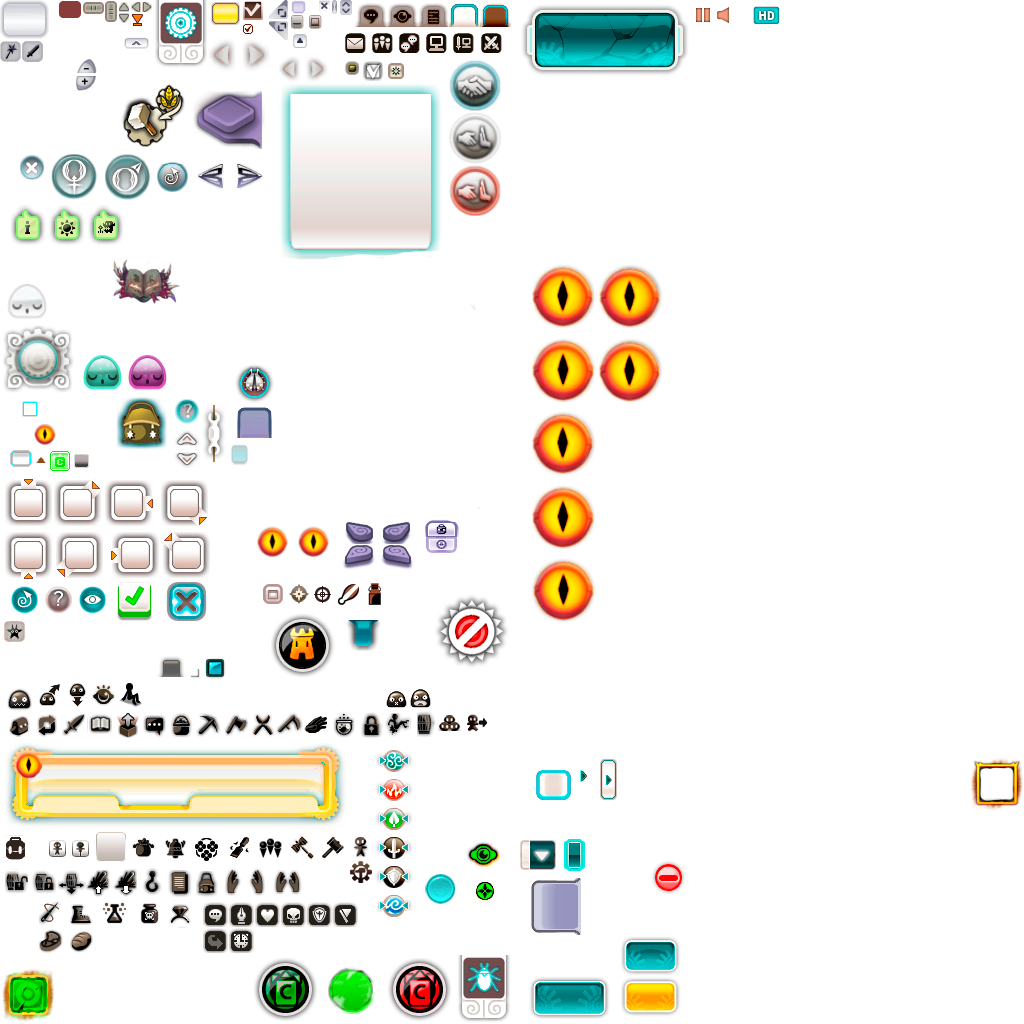
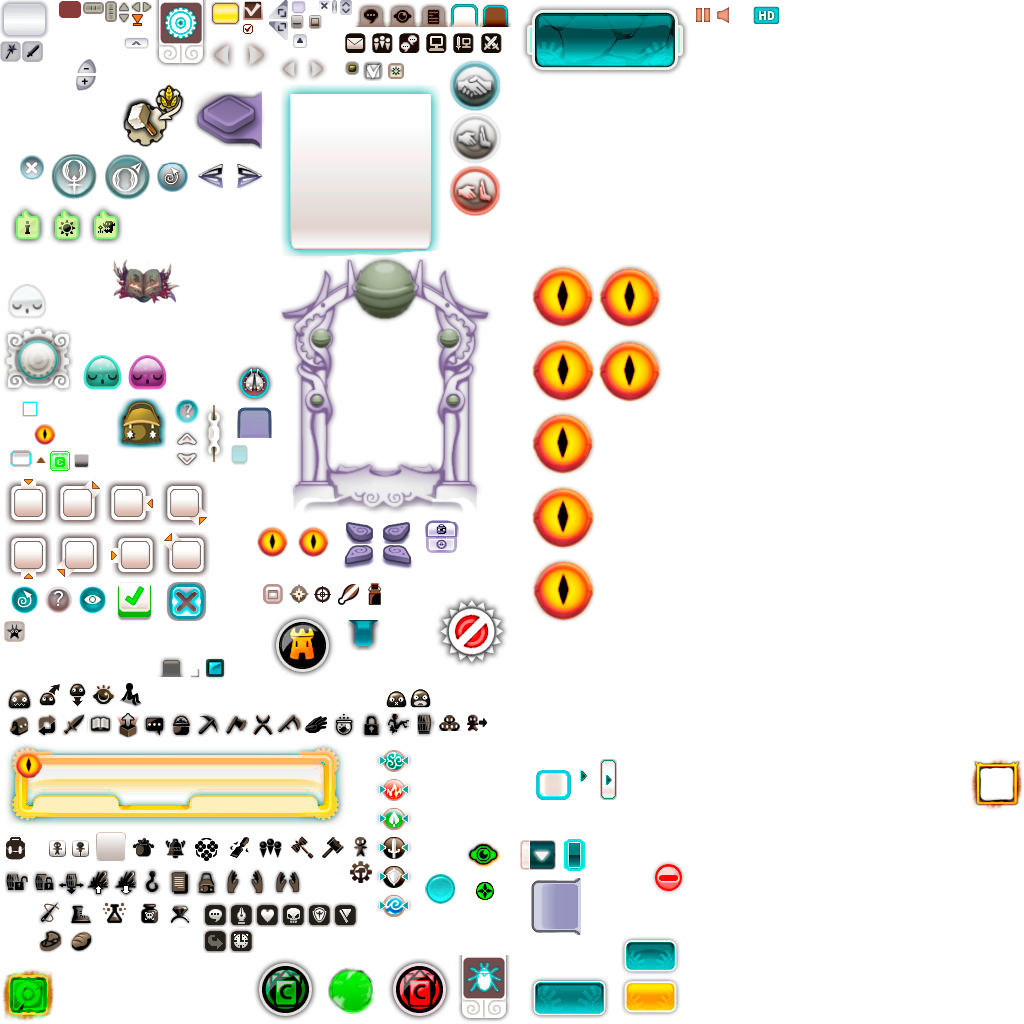
Fixed the Rubilax portrait frame, AP, MP and WP colors inside battles and a few other minor changes

Changed region(s): [[0.2812, 0.25, 0.4688, 0.5]]

diff --git a/README.md b/README.md
@@ -1,5 +1,2 @@
 # Shushu-Lavender-Theme
 Recolor and partial reskin of the original Shushu Theme by Bluhen
-
-You can get that one here:
-https://www.wakfu.com/en/forum/332-development/241673-theme-shushu-w-i-p
